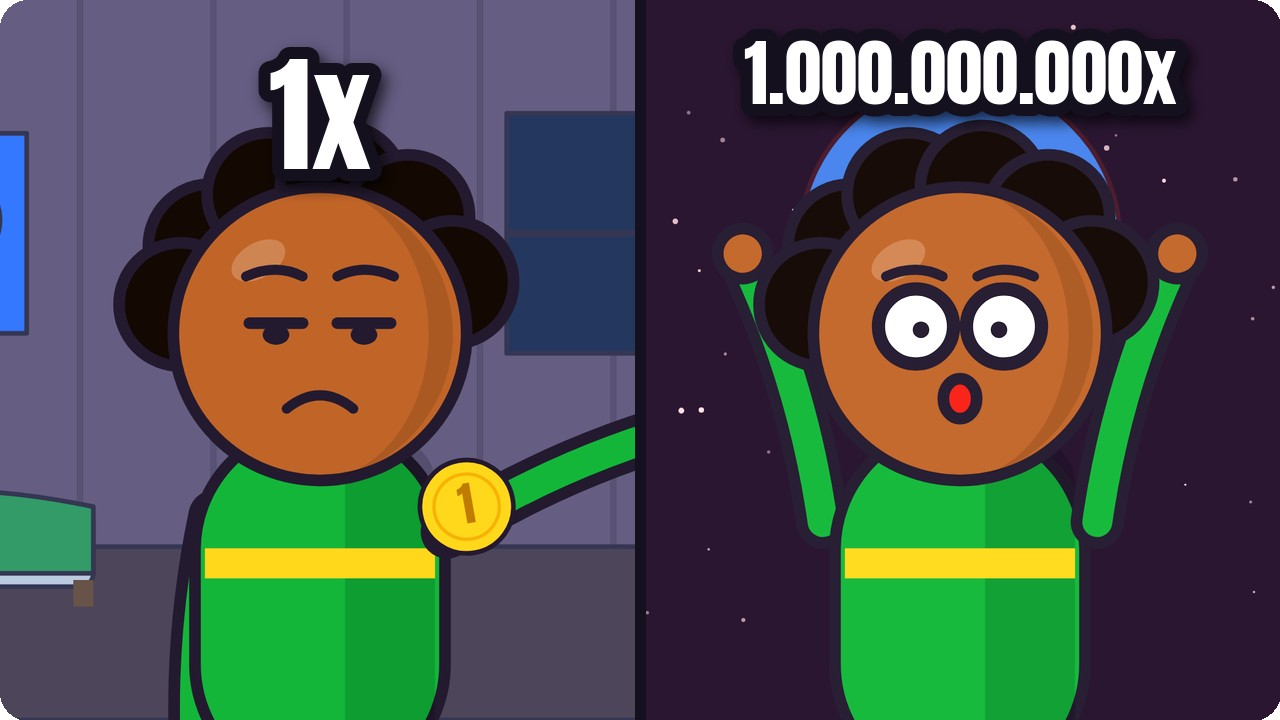
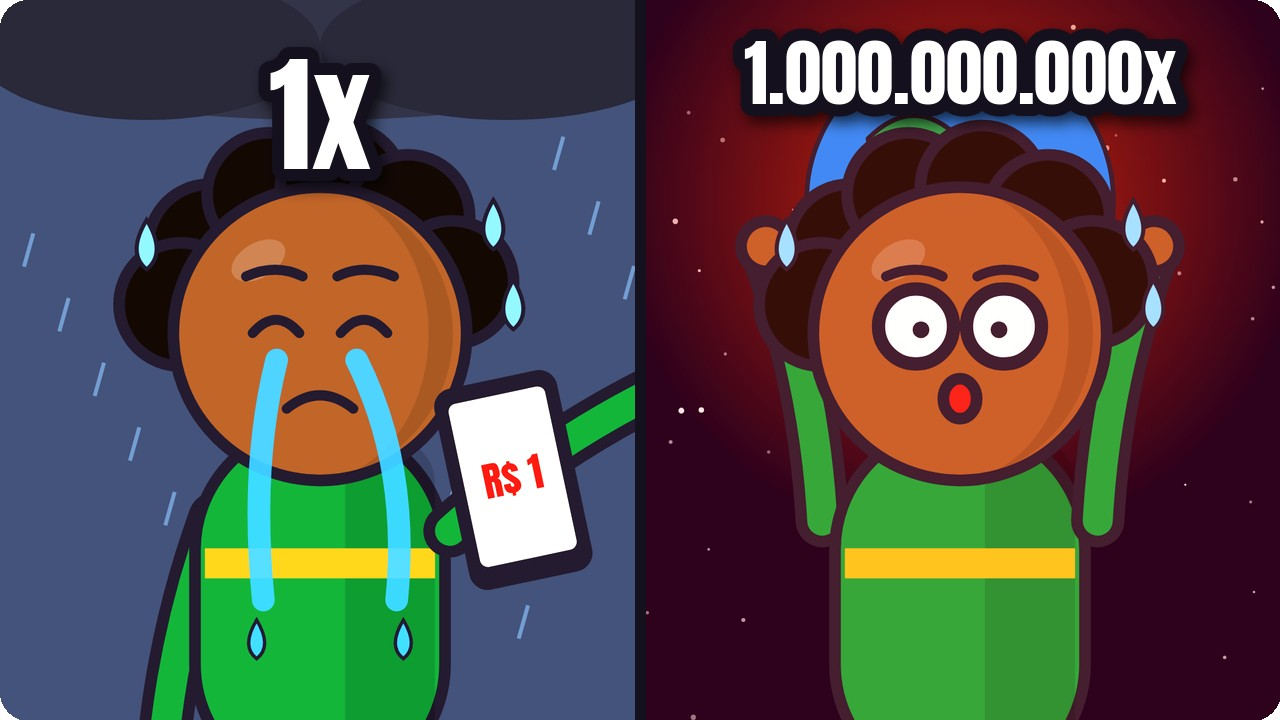
IMAGINA SÓ EP1: capas exageradas (lágrimas, olhos de cifrão, aura)
Claude-Session: https://claude.ai/code/session_01MUXnwG6fyaHSeYanEaGS8q

diff --git a/videos/imagina-001-dinheiro/world.ts b/videos/imagina-001-dinheiro/world.ts
@@ -117,6 +117,14 @@ function imTitle() {
     <g id="ts"><g transform="translate(960 560) rotate(2)"><rect x="-560" y="-80" width="1120" height="130" rx="18" fill="#2fa04a" ${bzO('stroke-width="9"')}/><text x="0" y="22" text-anchor="middle" font-family="Anton" font-size="84" fill="#fff">SEU DINHEIRO DOBRA TODO DIA</text></g></g>`;
 }
 
+
+// ---- thumbnail exaggeration kit (positions for a kid at (960, 1560, s 2.5): eyes ~ (915, 495) and (1035, 495), head r ~ 220)
+const imThTears = () => [915, 1035].map((x, k) => `<path d="M${x - 20} 540 Q ${x - 60 + k * 120} 700 ${x - 40 + k * 80} 900" stroke="#5ac8ff" stroke-width="34" fill="none" stroke-linecap="round" opacity="0.9"/><path d="M${x - 50 + k * 100} 930 q -24 40 0 58 q 24 -18 0 -58 z" fill="#5ac8ff" stroke="#2b2433" stroke-width="5"/>`).join('');
+const imThSweat = () => [[700, 330], [1220, 300], [1250, 420]].map(([x, y]) => `<path d="M${x} ${y} q -30 50 0 74 q 30 -24 0 -74 z" fill="#9ae0ff" stroke="#2b2433" stroke-width="6"/>`).join('');
+const imThRain = () => `<g><ellipse cx="960" cy="40" rx="560" ry="140" fill="#3a3a48"/><ellipse cx="700" cy="70" rx="260" ry="110" fill="#30303c"/><ellipse cx="1240" cy="70" rx="280" ry="110" fill="#30303c"/>${[...Array(40)].map((_, i) => `<path d="M${(i * 53) % 1920} ${180 + (i * 97) % 800} l -14 50" stroke="#8ab0d8" stroke-width="6" opacity="0.7"/>`).join('')}</g>`;
+const imThDollarEyes = () => [915, 1035].map((x) => `<circle cx="${x}" cy="495" r="58" fill="#ffd23a" stroke="#2b2433" stroke-width="9"/><text x="${x}" y="528" text-anchor="middle" font-family="Anton" font-size="96" fill="#1a8a3a">$</text>`).join('');
+const imThBolts = (c = '#fff27a') => [[330, 300, 1], [1590, 280, -1], [400, 760, 1], [1520, 760, -1]].map(([x, y, f]) => `<path d="M${x} ${y - 140} l ${-60 * f} 140 h ${50 * f} l ${-40 * f} 140 l ${120 * f} -170 h ${-56 * f} l ${40 * f} -110 z" fill="${c}" stroke="#2b2433" stroke-width="7"/>`).join('');
+const imThSparkles = () => [[600, 420], [1330, 380], [820, 220], [1120, 200], [1460, 760], [470, 760]].map(([x, y]) => `<path d="M${x} ${y - 46} L ${x + 12} ${y - 12} L ${x + 46} ${y} L ${x + 12} ${y + 12} L ${x} ${y + 46} L ${x - 12} ${y + 12} L ${x - 46} ${y} L ${x - 12} ${y - 12} Z" fill="#fff" stroke="#2b2433" stroke-width="5"/>`).join('');
 // ---------------------------------------------------------------- world test + brand plates
 defineVisuals({
   'test-cast': { bg: '#5ab0f0', html: () => svg(`${imStreet()}${imChar('tuco', 'tuco', 300, 940, 1.0)}${imChar('tucoRich', 'tr', 520, 940, 1.0)}${imChar('biel', 'biel', 740, 940, 1.0)}${imChar('mae', 'mae', 960, 940, 0.95)}${imChar('ger', 'ger', 1180, 940, 0.95)}${imChar('rep', 'rep', 1400, 940, 0.95)}${imChar('seg', 'seg', 1620, 940, 0.95)}${imChar('tio', 'tio', 1820, 940, 0.9)}`), anim() {} },
@@ -138,12 +146,12 @@ defineVisuals({
       <g transform="translate(960 625) rotate(2)"><rect x="-400" y="-46" width="800" height="80" rx="14" fill="#2fa04a" ${bzO('stroke-width="7"')}/><text x="0" y="14" text-anchor="middle" font-family="Anton" font-size="48" fill="#fff">E SE... ACONTECESSE COM VOCÊ?</text></g>`),
     anim(tl, s) { tl.set('#sc-brand-banner #pile g', { opacity: 1 }, s.t0); bzFace(tl, '#sc-brand-banner #tuco', s.t0, 'wide', 'grin'); bzFace(tl, '#sc-brand-banner #biel', s.t0, 'wide', 'o'); bzPose(tl, '#sc-brand-banner #tuco', s.t0, { aR: -150 }, 0.01); } },
   // thumbnail panels (full frames, the subject centered so make-thumb.py can cut a half or a third of each)
-  'thumb-p1': { bg: '#8a9ab0', html: () => svg(`${imRoom(false)}<rect width="1920" height="1080" fill="#5a6a88" opacity="0.35"/>${imChar('tuco', 't', 960, 1560, 2.5)}<g transform="translate(1180 760) rotate(-10)">${imCoin(0, 0, 70)}</g>`),
-    anim(tl, s) { bzFace(tl, '#sc-thumb-p1 #t', s.t0, 'half', 'frown'); bzPose(tl, '#sc-thumb-p1 #t', s.t0, { aR: -110 }, 0.01); } },
-  'thumb-p2': { bg: '#2fa04a', html: () => svg(`<rect width="1920" height="1080" fill="#2fa04a"/>${bzRays('r', 960, 520, 18, 1300, '#f6c744', 0.45)}${imPiles(960, 1080)}${imChar('tucoRich', 't', 960, 1560, 2.5)}${[[620, 300, -20], [1300, 260, 15], [700, 700, 10], [1240, 640, -15]].map(([x, y, r]) => imNote(x, y, r, 1.1)).join('')}`),
-    anim(tl, s) { tl.set('#sc-thumb-p2 #pile g', { opacity: 1 }, s.t0); bzFace(tl, '#sc-thumb-p2 #t', s.t0, 'wide', 'grin'); bzPose(tl, '#sc-thumb-p2 #t', s.t0, { aL: 150, aR: -150 }, 0.01); } },
-  'thumb-p3': { bg: '#0e1a33', html: () => svg(`<rect width="1920" height="1080" fill="#0e1a33"/>${bzStars(90, 4, 1080)}${imGlobe(960, 360, 240)}<rect width="1920" height="1080" fill="#e0302a" opacity="0.15"/>${imChar('tucoRich', 't', 960, 1560, 2.5)}`),
-    anim(tl, s) { bzFace(tl, '#sc-thumb-p3 #t', s.t0, 'wide', 'o'); bzPose(tl, '#sc-thumb-p3 #t', s.t0, { aL: 160, aR: -160 }, 0.01); } },
+  'thumb-p1': { bg: '#5a6a88', html: () => svg(`<rect width="1920" height="1080" fill="#4a5470"/>${imThRain()}${imChar('tuco', 't', 960, 1560, 2.5)}${imThTears()}${imThSweat()}<g transform="translate(1250 720) rotate(-12)"><rect x="-90" y="-150" width="180" height="300" rx="24" fill="#2b2433" stroke="#2b2433" stroke-width="8"/><rect x="-74" y="-130" width="148" height="250" rx="12" fill="#fbf7ef"/><text x="0" y="20" text-anchor="middle" font-family="Anton" font-size="60" fill="#e0302a">R$ 1</text></g>`),
+    anim(tl, s) { bzFace(tl, '#sc-thumb-p1 #t', s.t0, 'closed', 'frown'); bzPose(tl, '#sc-thumb-p1 #t', s.t0, { aR: -120, aL: 8 }, 0.01); } },
+  'thumb-p2': { bg: '#1a8a3a', html: () => svg(`<rect width="1920" height="1080" fill="#0f7a34"/>${bzRays('r', 960, 500, 22, 1400, '#ffe066', 0.55)}${bzGlow('au', 960, 560, 640, '#ffd23a', 0.7)}${imThBolts()}${imPiles(960, 1080)}${imChar('tucoRich', 't', 960, 1560, 2.5)}${imThDollarEyes()}${imThSparkles()}${[[560, 260, -25], [1360, 220, 18], [620, 640, 14], [1320, 600, -18], [380, 480, 30], [1560, 440, -30]].map(([x, y, r]) => imNote(x, y, r, 1.25)).join('')}`),
+    anim(tl, s) { tl.set('#sc-thumb-p2 #pile g', { opacity: 1 }, s.t0); bzFace(tl, '#sc-thumb-p2 #t', s.t0, 'wide', 'grin'); bzPose(tl, '#sc-thumb-p2 #t', s.t0, { aL: 160, aR: -160 }, 0.01); } },
+  'thumb-p3': { bg: '#0e1a33', html: () => svg(`<rect width="1920" height="1080" fill="#14081e"/>${bzStars(110, 4, 1080)}${bzGlow('fire', 960, 300, 520, '#ff4a1a', 0.6)}${imGlobe(960, 300, 230)}${imThBolts('#ff5a3a')}${imChar('tucoRich', 't', 960, 1560, 2.5)}${imThSweat()}<rect width="1920" height="1080" fill="#e0302a" opacity="0.12"/>`),
+    anim(tl, s) { bzFace(tl, '#sc-thumb-p3 #t', s.t0, 'wide', 'o'); bzPose(tl, '#sc-thumb-p3 #t', s.t0, { aL: 165, aR: -165 }, 0.01); } },
   // thumbnails (clean plates; text added by make-thumb.py)
   'thumb-a': { bg: '#5a7aa8', html: () => svg(`<rect width="960" height="1080" fill="#8a9ab0"/><rect x="960" width="960" height="1080" fill="#f6c744"/>${bzRays('r2', 1440, 600, 14, 900, '#fff', 0.3)}
       ${imPiles(1500, 1090)}${imChar('tuco', 't1', 480, 1300, 1.9)}${imCoin(700, 760, 60)}${imChar('tucoRich', 't2', 1400, 1300, 1.9)}<rect x="952" width="16" height="1080" fill="${BZ.ink}"/>`),
